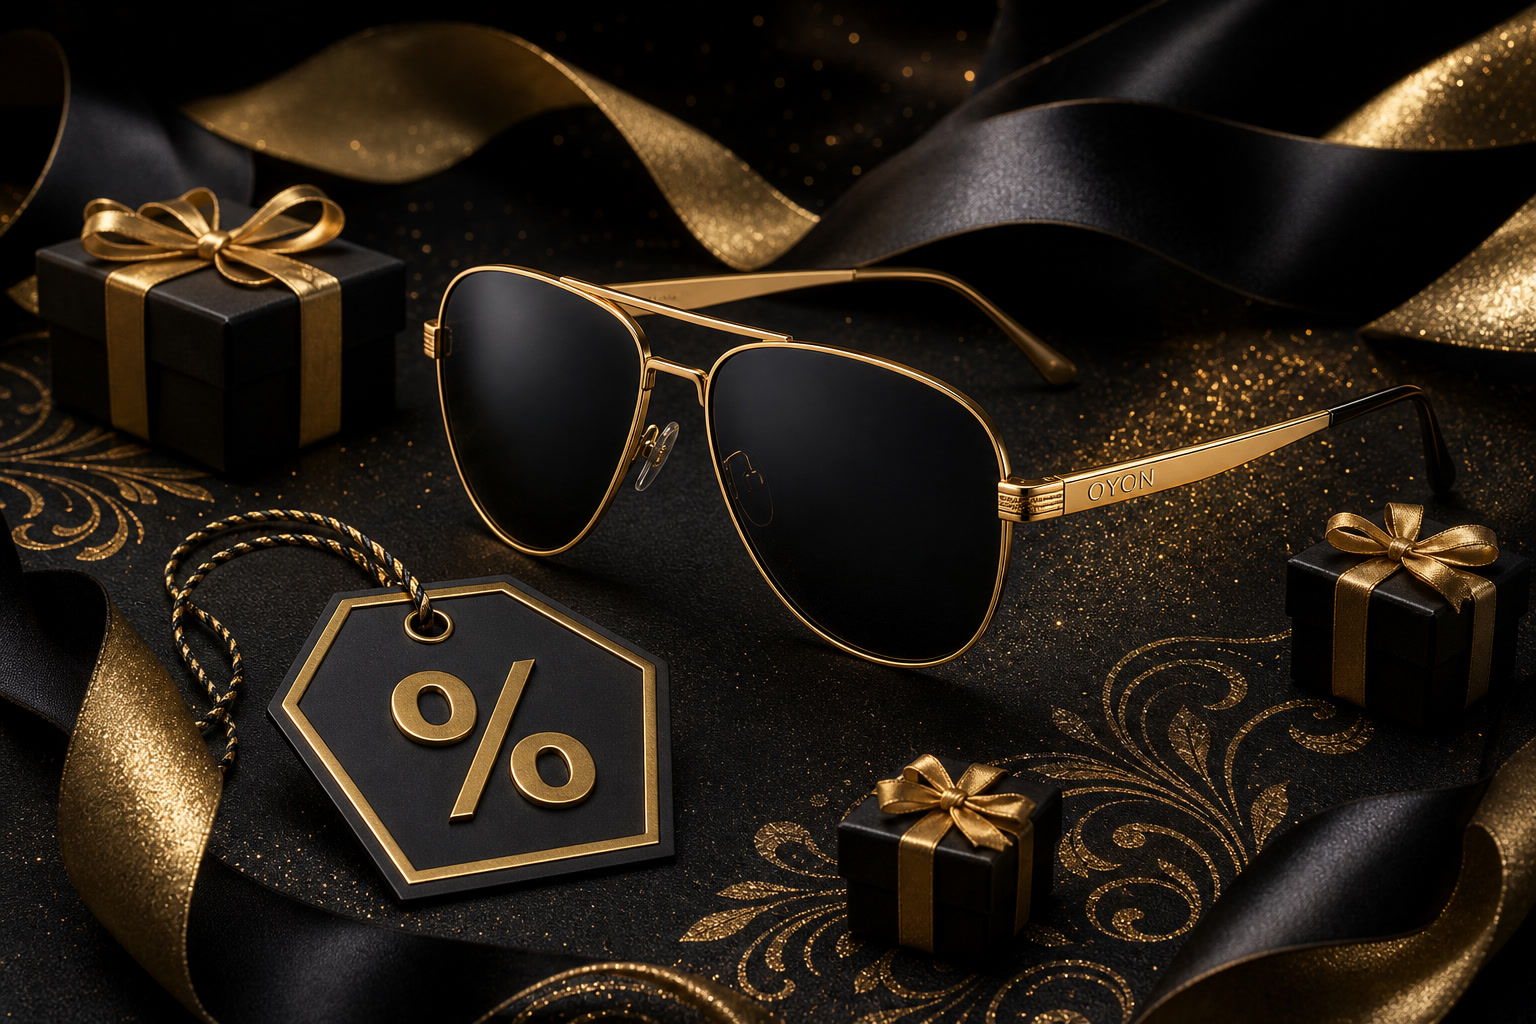
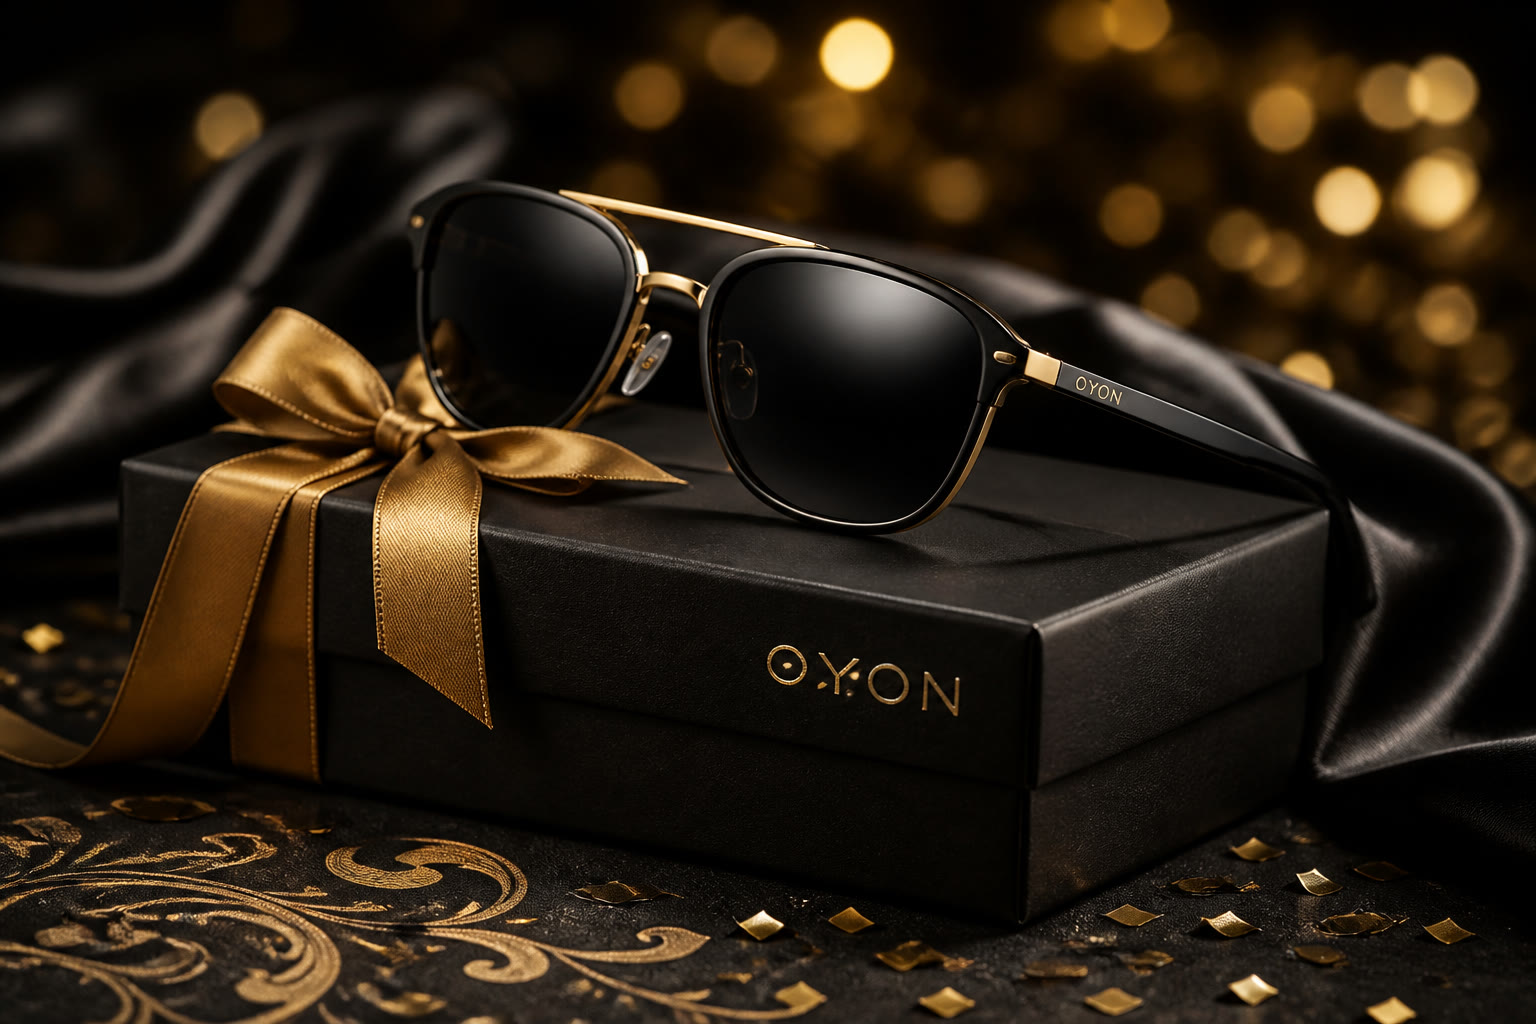
Replace homepage category cards with premium black-gold imagery.
Swap all six NavigationHub card photos to match the OYON premium set while keeping layout, typography, hover, and routes unchanged.

diff --git a/app/globals.css b/app/globals.css
@@ -1980,21 +1980,25 @@ html[lang="he"] .home-welcome-title {
   }
 }
 
-/* Keep exam / contact subjects framed across breakpoints */
+/* Keep premium card subjects framed across breakpoints */
 .home-card-img--exams {
+  object-fit: cover;
+  object-position: center 38%;
+}
+
+.home-card-img--frames {
   object-fit: cover;
   object-position: center 45%;
 }
 
 .home-card-img--contacts {
   object-fit: cover;
-  /* Bias left so the fingertip contact lens stays in frame on narrow cards */
-  object-position: 28% 50%;
+  object-position: center 42%;
 }
 
 .home-card-img--sunglasses {
   object-fit: cover;
-  object-position: center 48%;
+  object-position: center 28%;
 }
 
 .home-card-img--promotions {
@@ -2009,15 +2013,19 @@ html[lang="he"] .home-welcome-title {
 
 @media (min-width: 640px) {
   .home-card-img--exams {
+    object-position: center 36%;
+  }
+
+  .home-card-img--frames {
     object-position: center 42%;
   }
 
   .home-card-img--contacts {
-    object-position: 36% 50%;
+    object-position: center 40%;
   }
 
   .home-card-img--sunglasses {
-    object-position: center 45%;
+    object-position: center 26%;
   }
 
   .home-card-img--promotions {
@@ -2031,15 +2039,19 @@ html[lang="he"] .home-welcome-title {
 
 @media (min-width: 1024px) {
   .home-card-img--exams {
+    object-position: center 38%;
+  }
+
+  .home-card-img--frames {
     object-position: center 45%;
   }
 
   .home-card-img--contacts {
-    object-position: 42% 50%;
+    object-position: center 42%;
   }
 
   .home-card-img--sunglasses {
-    object-position: center 45%;
+    object-position: center 28%;
   }
 
   .home-card-img--promotions {

diff --git a/components/home/NavigationHub.tsx b/components/home/NavigationHub.tsx
@@ -16,9 +16,8 @@ const TILES = [
   {
     key: "frames",
     href: "/frames",
-    image:
-      "https://images.unsplash.com/photo-1574258495973-f010dfbb5371?auto=format&fit=crop&w=1600&q=85",
-    position: "object-[center_45%]",
+    image: "/images/card-frames.jpg",
+    position: "home-card-img--frames",
   },
   {
     key: "sunglasses",
